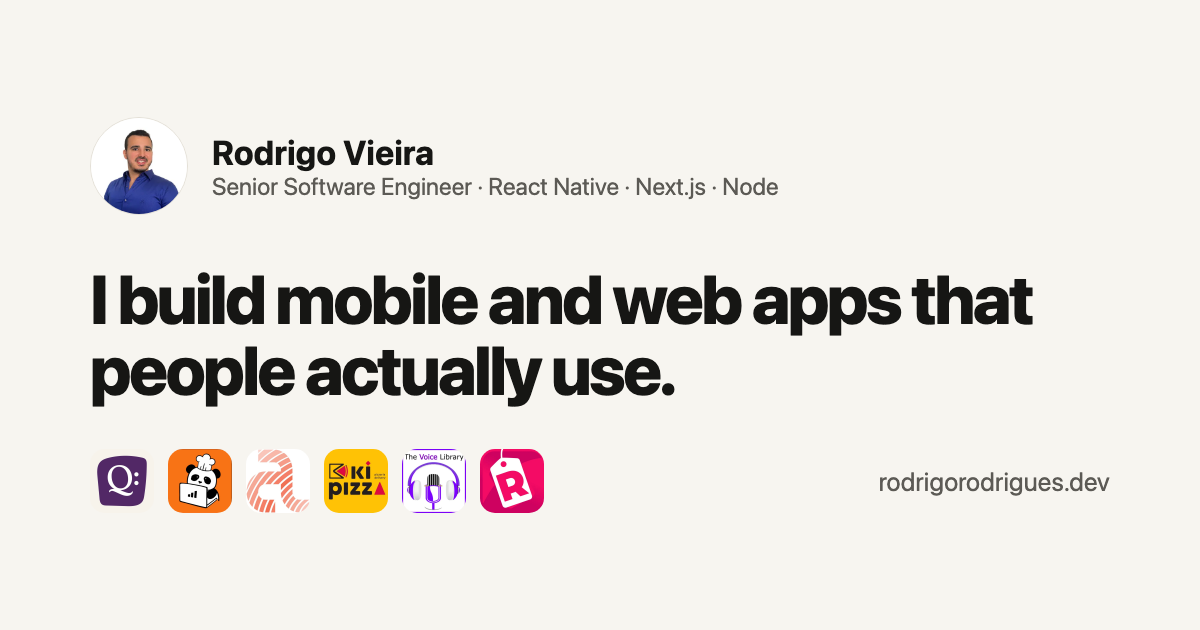
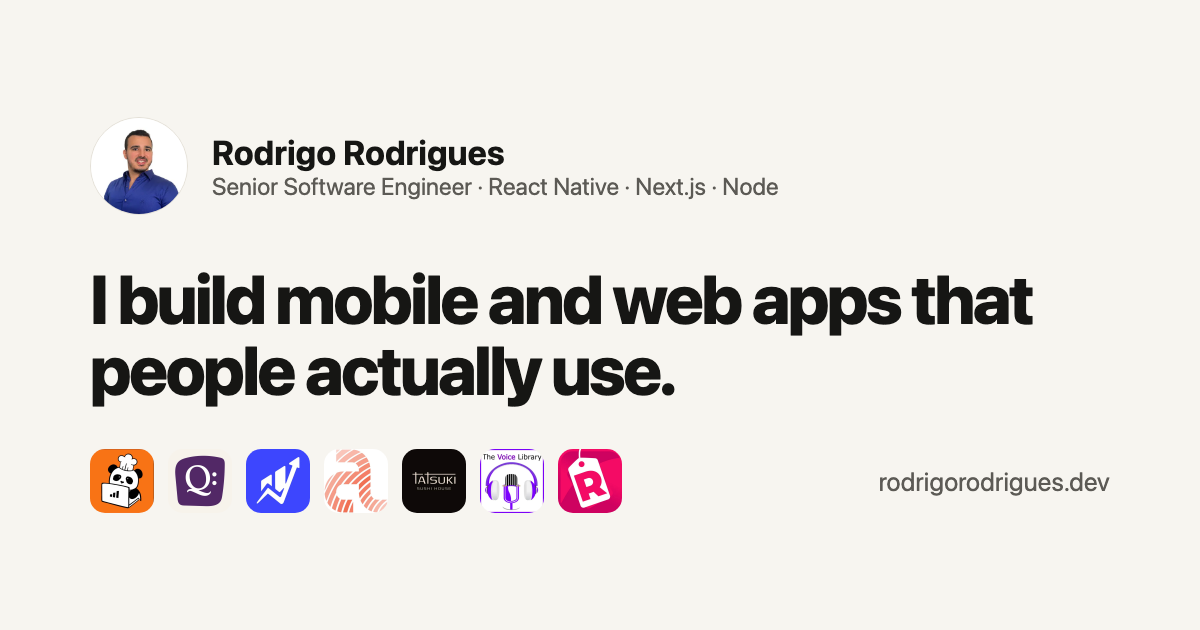
Use Rodrigo Rodrigues as the public name, matching LinkedIn

Changed region(s): [[0.0617, 0.6937, 0.5242, 0.8143], [0.2775, 0.2111, 0.4317, 0.2714]]

diff --git a/src/data/content.ts b/src/data/content.ts
@@ -24,7 +24,7 @@ export interface Project {
 }
 
 export const profile = {
-  name: "Rodrigo Vieira",
+  name: "Rodrigo Rodrigues",
   email: "rodriigovieira@gmail.com",
   linkedin: "https://www.linkedin.com/in/rodriigovieira/",
   github: "https://github.com/rodriigovieira",
@@ -282,7 +282,7 @@ export const stack = [
 export const copy = {
   en: {
     htmlLang: "en",
-    title: "Rodrigo Vieira — Senior Mobile & Full-stack Engineer",
+    title: "Rodrigo Rodrigues — Senior Mobile & Full-stack Engineer",
     description:
       "Senior software engineer building React Native and Next.js apps that ship to the App Store and Google Play.",
     nav: { work: "Work", experience: "Experience", contact: "Contact" },
@@ -314,7 +314,7 @@ export const copy = {
   },
   pt: {
     htmlLang: "pt-BR",
-    title: "Rodrigo Vieira — Engenheiro Mobile e Full-stack Sênior",
+    title: "Rodrigo Rodrigues — Engenheiro Mobile e Full-stack Sênior",
     description:
       "Engenheiro de software sênior que cria apps em React Native e Next.js publicados na App Store e Google Play.",
     nav: { work: "Trabalhos", experience: "Experiência", contact: "Contato" },

diff --git a/README.md b/README.md
@@ -1,6 +1,6 @@
 # rodrigorodrigues.dev
 
-Personal site and portfolio of Rodrigo Vieira. Static [Astro](https://astro.build) site, English at `/` and Portuguese at `/pt/`.
+Personal site and portfolio of Rodrigo Rodrigues. Static [Astro](https://astro.build) site, English at `/` and Portuguese at `/pt/`.
 
 ```sh
 npm install
